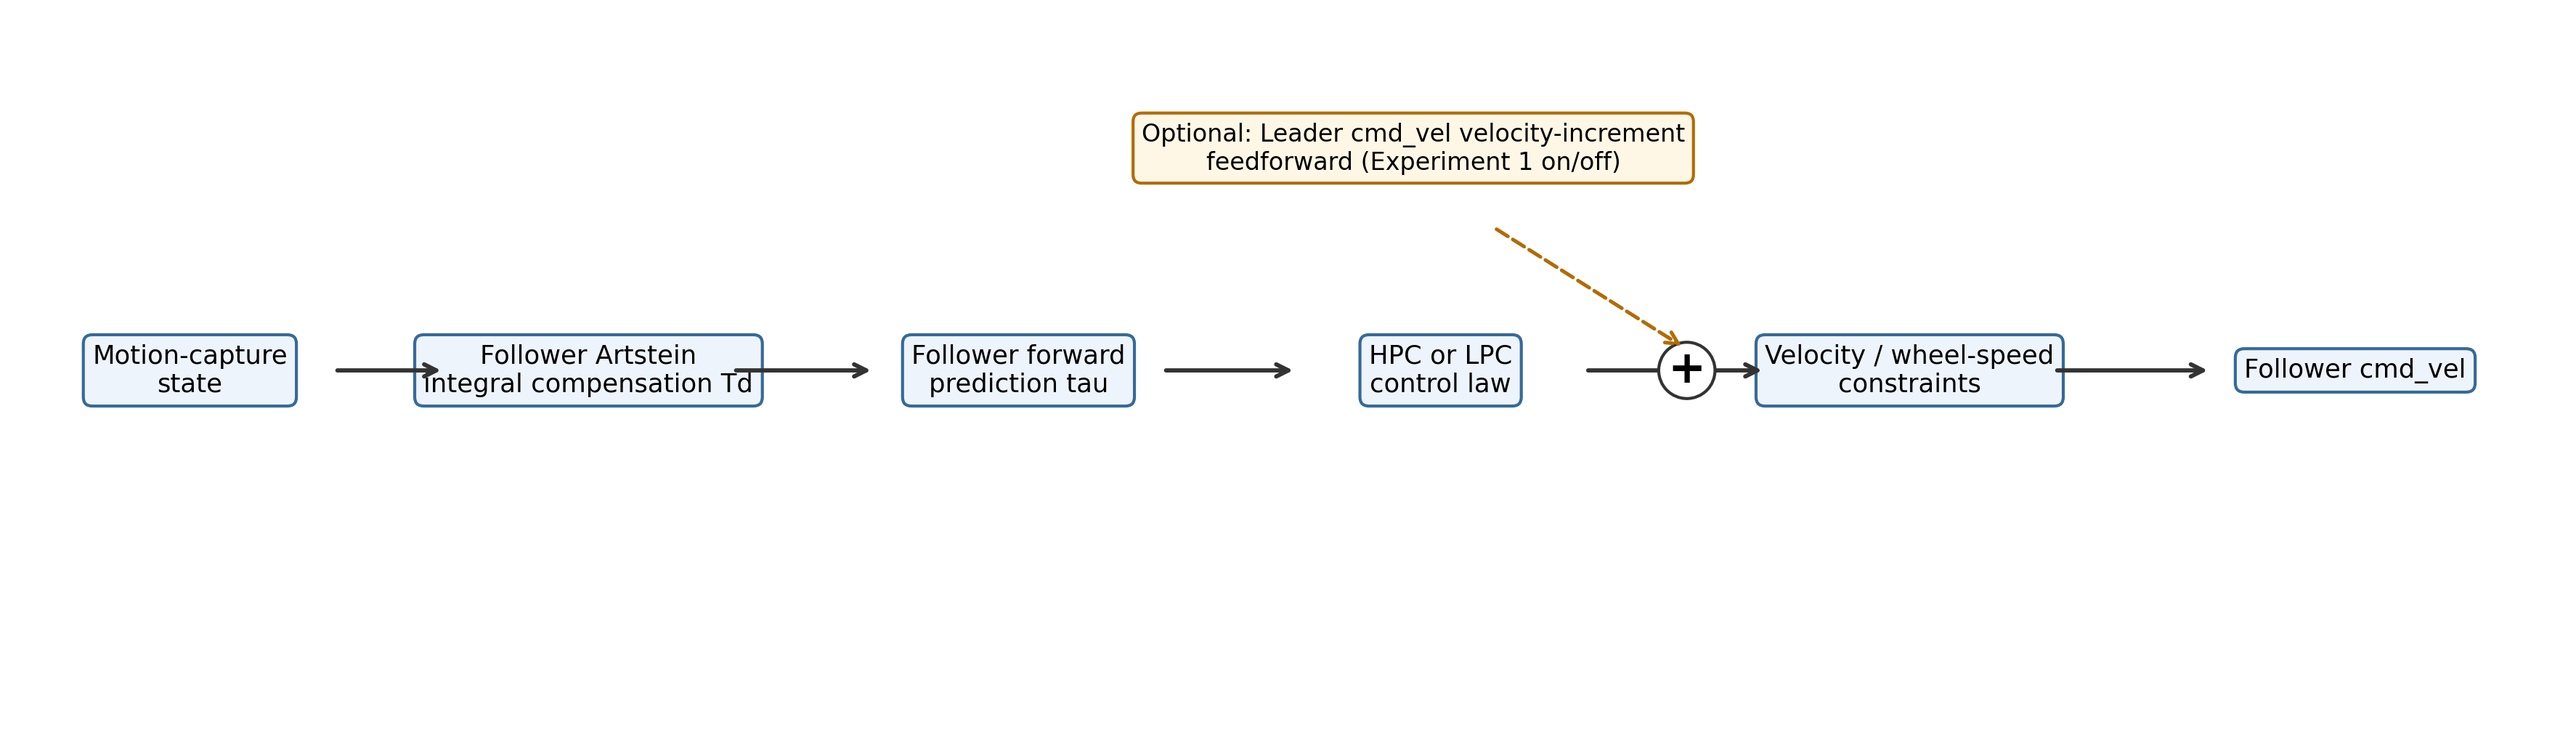
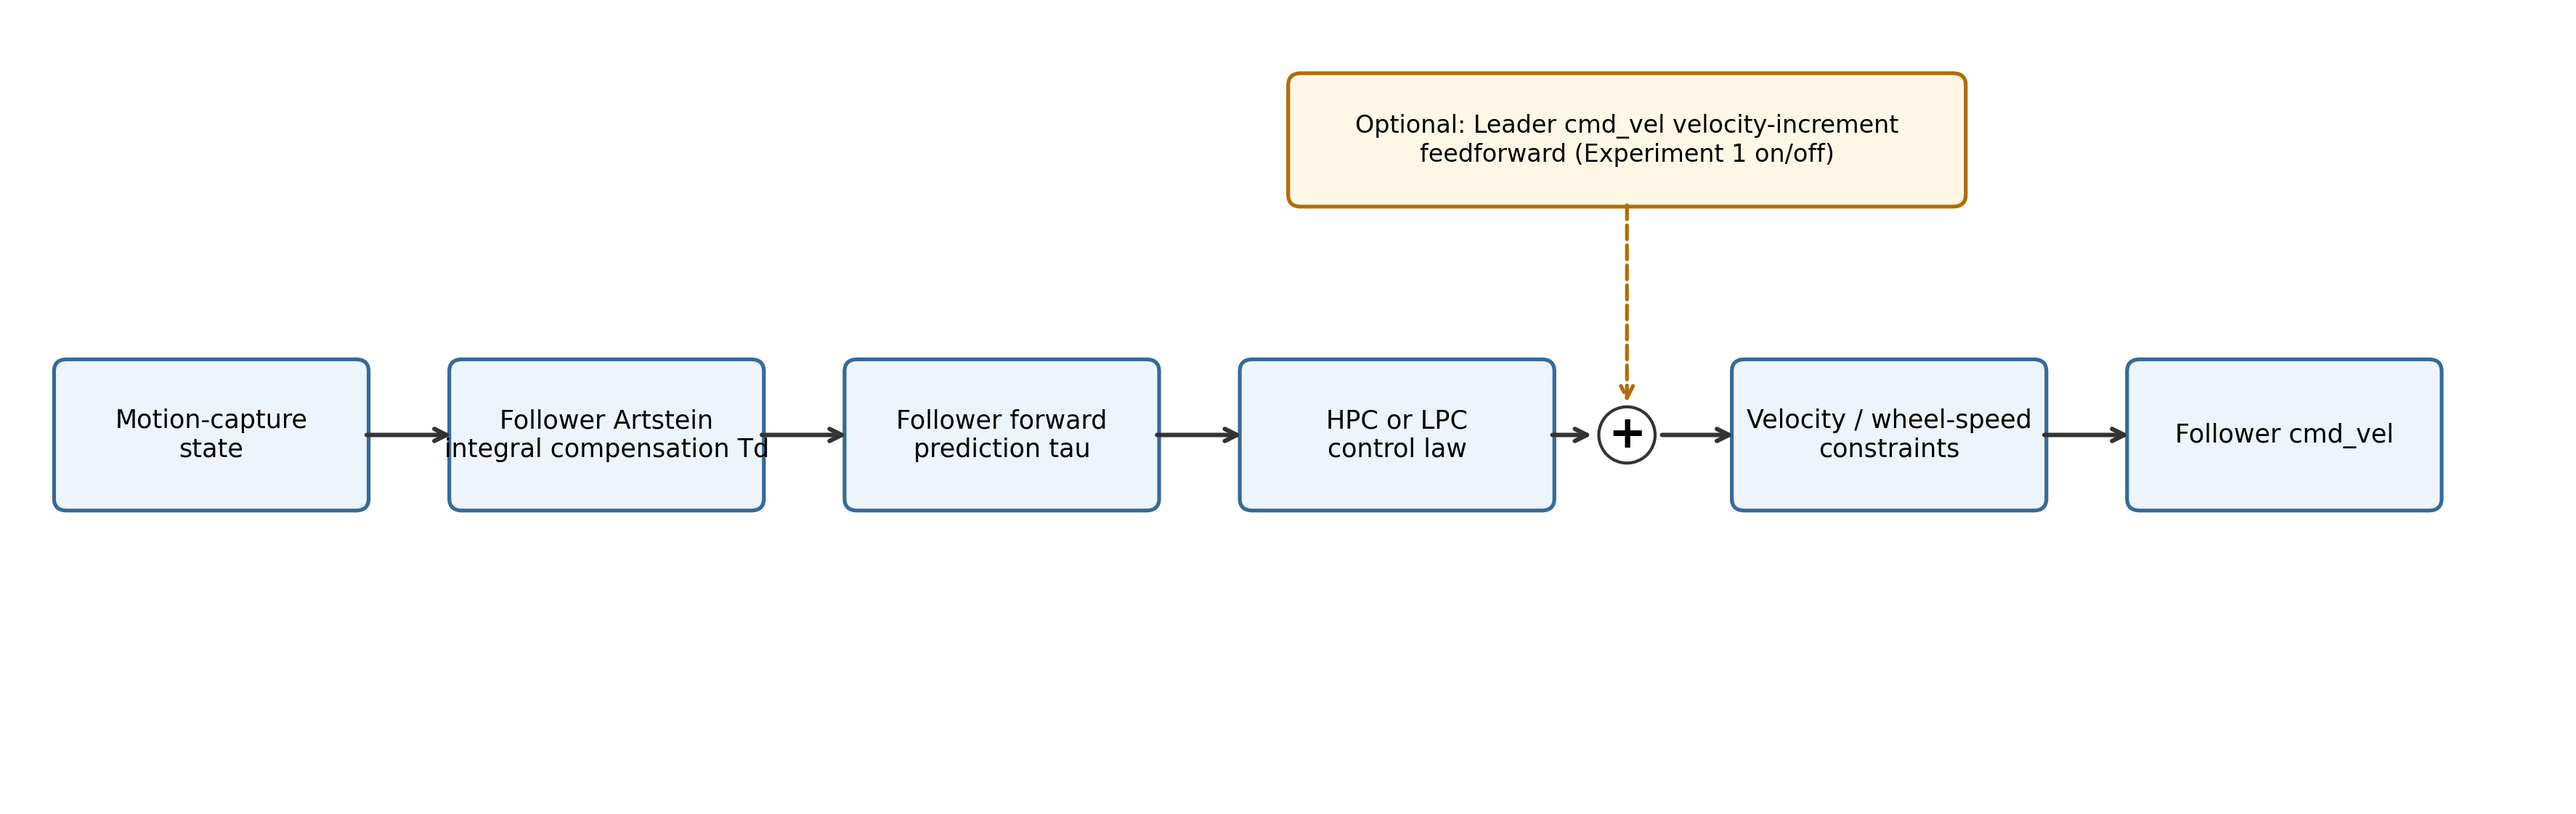
优化控制链路图布局

diff --git a/homo_multirobot_formation_control/scripts/analyze_real_tracking_report.py b/homo_multirobot_formation_control/scripts/analyze_real_tracking_report.py
@@ -301,9 +301,12 @@ def _draw_position_component(axis, selected_series, component, chinese_labels):
 
 
 def _draw_control_pipeline(plt, output_path, chinese_labels):
-    figure, axis = plt.subplots(figsize=(15, 4.2))
-    axis.set_xlim(0, 16.2)
-    axis.set_ylim(0, 5.0)
+    """Draw an aligned control-flow diagram with one consistent arrow baseline."""
+    from matplotlib.patches import FancyBboxPatch
+
+    figure, axis = plt.subplots(figsize=(15, 4.6))
+    axis.set_xlim(0, 15.7)
+    axis.set_ylim(0, 5.2)
     axis.axis("off")
     labels = (
         ("Motion-capture\nstate", "动捕状态"),
@@ -313,24 +316,42 @@ def _draw_control_pipeline(plt, output_path, chinese_labels):
         ("Velocity / wheel-speed\nconstraints", "速度/轮速约束"),
         ("Follower cmd_vel", "Follower cmd_vel"),
     )
-    xs = (0.25, 2.8, 5.55, 8.25, 11.25, 14.1)
-    width, height, y = 1.65, 1.05, 2.0
+    xs = (0.25, 2.7, 5.15, 7.6, 10.65, 13.1)
+    width, height, y = 1.85, 0.92, 1.95
+    line_y = y + height / 2
     for x, label_pair in zip(xs, labels):
         text = label_pair[1] if chinese_labels else label_pair[0]
-        axis.text(x + width / 2, y + height / 2, text, ha="center", va="center", fontsize=8.5,
-                  bbox={"boxstyle": "round,pad=0.35", "fc": "#eef4fb", "ec": "#356a9a"})
-    for left, right in zip(xs, xs[1:]):
-        axis.annotate("", xy=(right - 0.08, y + height / 2), xytext=(left + width + 0.08, y + height / 2),
-                      arrowprops={"arrowstyle": "->", "lw": 1.4, "color": "#333333"})
-    sum_x, sum_y = 10.65, y + height / 2
+        patch = FancyBboxPatch((x, y), width, height, boxstyle="round,pad=0.05,rounding_size=0.08",
+                               facecolor="#eef4fb", edgecolor="#356a9a", linewidth=1.25)
+        axis.add_patch(patch)
+        axis.text(x + width / 2, line_y, text, ha="center", va="center", fontsize=8.4)
+
+    sum_x, sum_y, sum_radius = 9.95, line_y, 0.18
     axis.text(sum_x, sum_y, "+", ha="center", va="center", fontsize=15, weight="bold",
               bbox={"boxstyle": "circle,pad=0.14", "fc": "white", "ec": "#333333"})
+    flow_segments = (
+        (xs[0] + width, xs[1]),
+        (xs[1] + width, xs[2]),
+        (xs[2] + width, xs[3]),
+        (xs[3] + width, sum_x - sum_radius),
+        (sum_x + sum_radius, xs[4]),
+        (xs[4] + width, xs[5]),
+    )
+    for start_x, end_x in flow_segments:
+        axis.annotate("", xy=(end_x, line_y), xytext=(start_x, line_y),
+                      arrowprops={"arrowstyle": "->", "lw": 1.45, "color": "#333333"})
     optional = ("Optional: Leader cmd_vel velocity-increment\nfeedforward (Experiment 1 on/off)"
                 if not chinese_labels else "可选：Leader cmd_vel 速度增量前馈\n（实验一开/关）")
-    axis.text(8.9, 4.1, optional, ha="center", va="center", fontsize=8,
-              bbox={"boxstyle": "round,pad=0.35", "fc": "#fff7e6", "ec": "#b36b00"})
-    axis.annotate("", xy=(sum_x, sum_y + 0.15), xytext=(9.4, 3.55),
-                  arrowprops={"arrowstyle": "->", "lw": 1.2, "ls": "--", "color": "#b36b00"})
+    optional_y = 4.0
+    optional_width, optional_height = 4.1, 0.8
+    optional_x = sum_x - optional_width / 2
+    patch = FancyBboxPatch((optional_x, optional_y), optional_width, optional_height,
+                           boxstyle="round,pad=0.05,rounding_size=0.08", facecolor="#fff7e6",
+                           edgecolor="#b36b00", linewidth=1.25)
+    axis.add_patch(patch)
+    axis.text(sum_x, optional_y + optional_height / 2, optional, ha="center", va="center", fontsize=8)
+    axis.annotate("", xy=(sum_x, sum_y + sum_radius), xytext=(sum_x, optional_y),
+                  arrowprops={"arrowstyle": "->", "lw": 1.25, "ls": "--", "color": "#b36b00"})
     _save_figure(figure, output_path)
     plt.close(figure)
 
